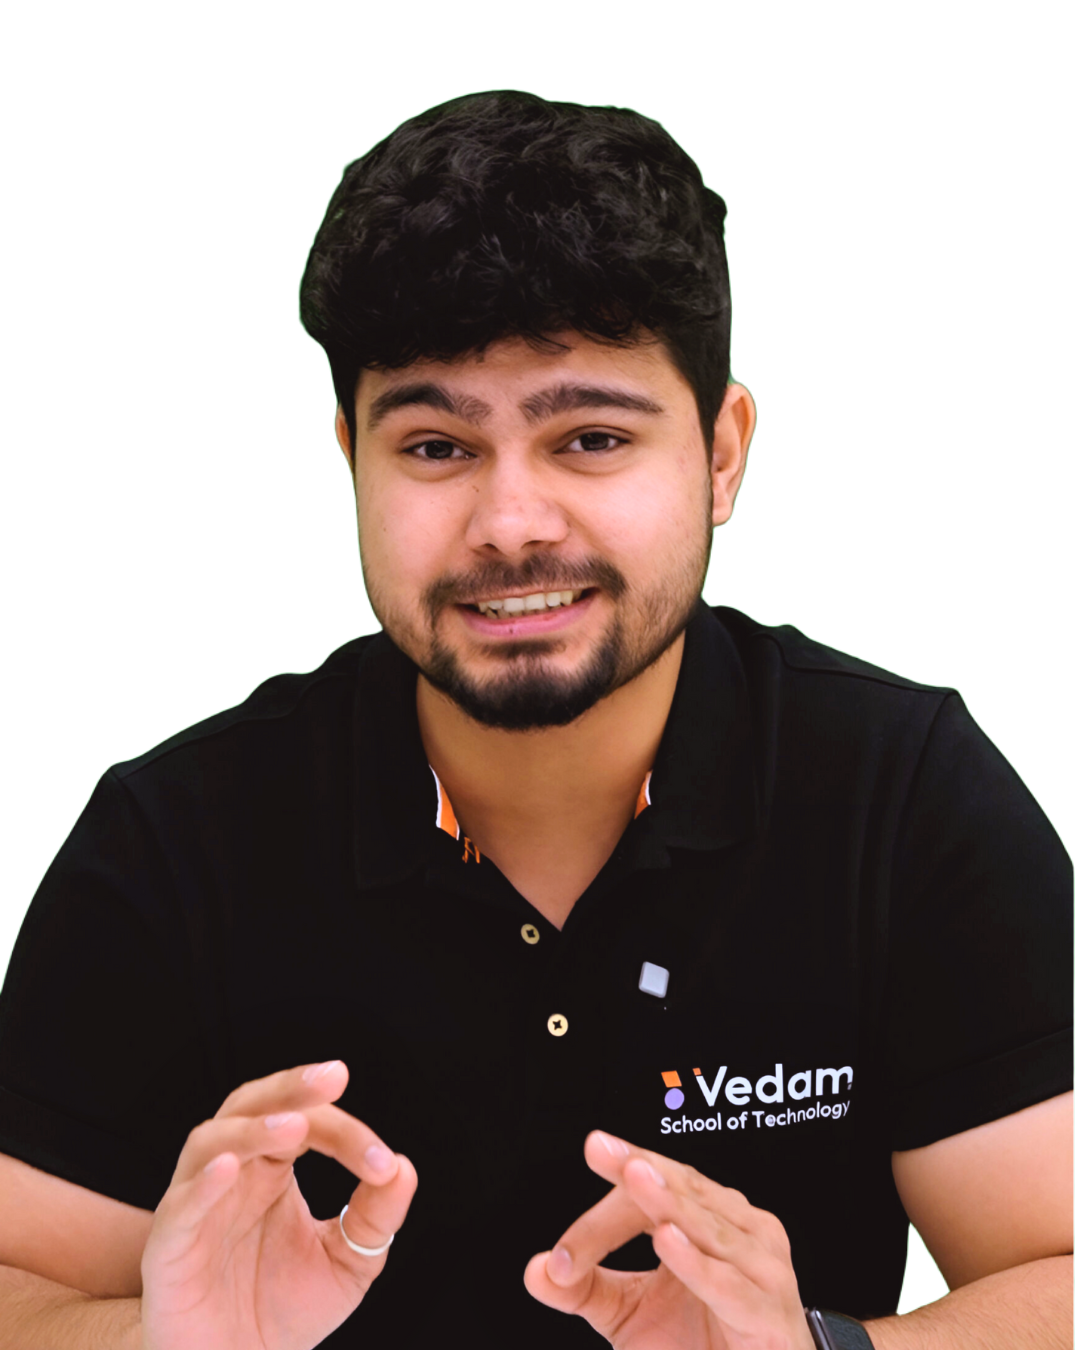
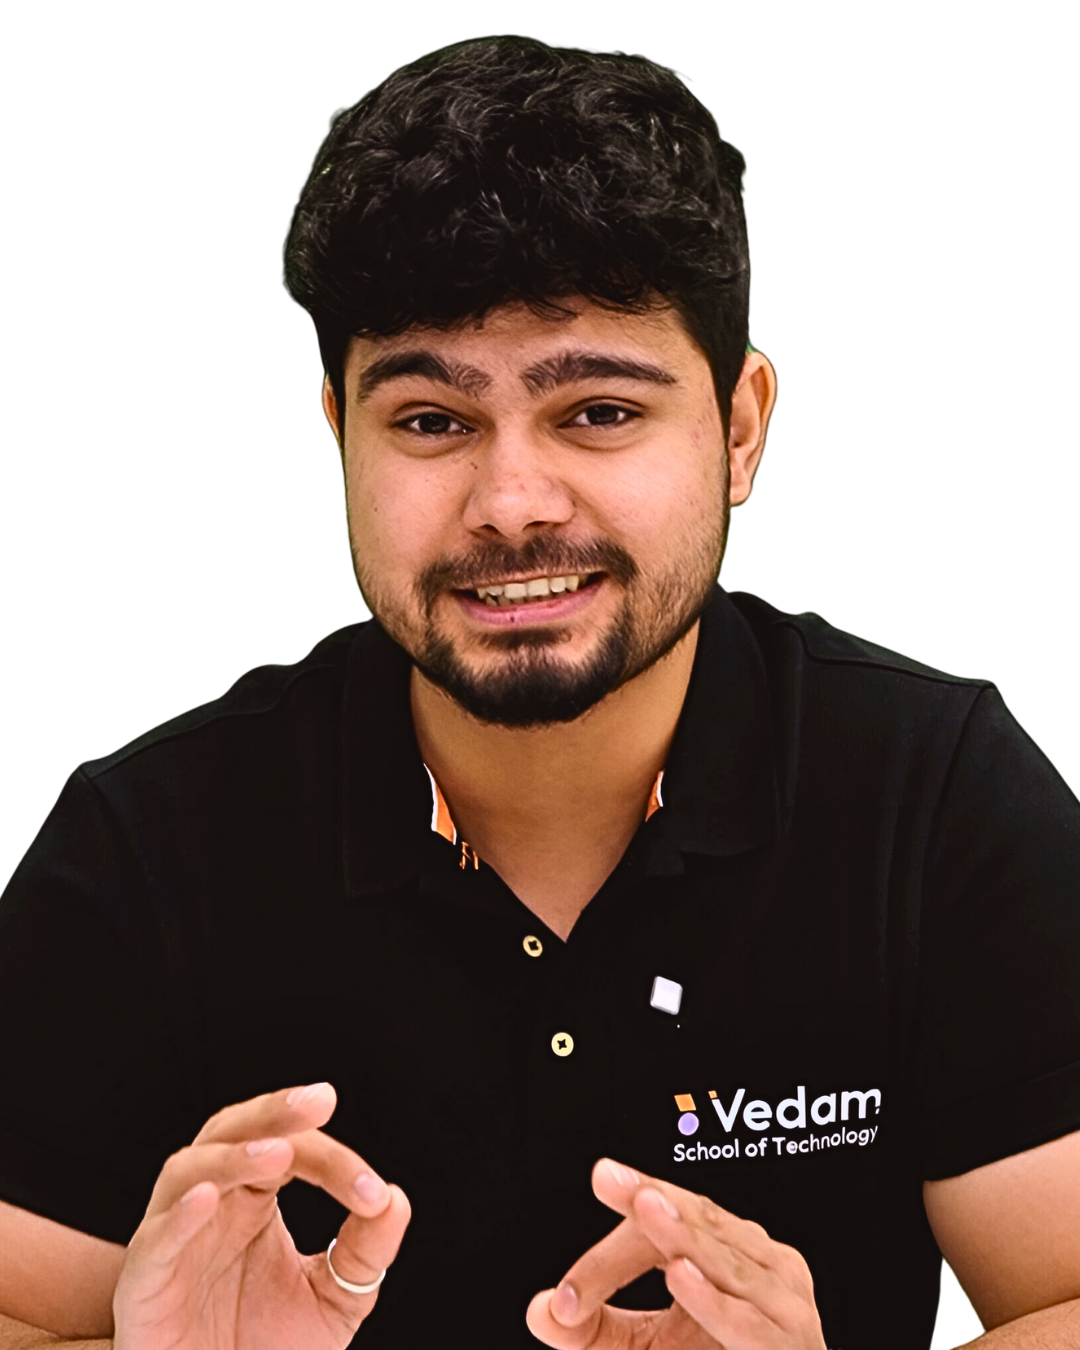
VF-110 updated images

diff --git a/src/components/CourseCard.tsx b/src/components/CourseCard.tsx
@@ -87,8 +87,8 @@ const CourseCard: React.FC<CourseCardProps> = ({ course, onClick }) => {
               top: { xs: 0, md: 32, lg: 8 },
               left: isMobile ? -5 : 0,
               borderRadius: isMobile ? '50% 50% 50% 0%' : '0%',
-              width: isMobile ? 200 : 320,
-              height: isMobile ? 250 : 340,
+              width: isMobile ? 200 : 290,
+              height: isMobile ? 250 : 350,
             }}
           />
         </Box>
